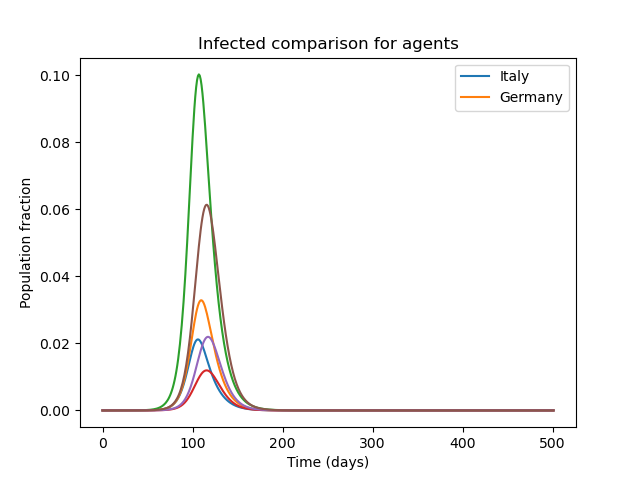
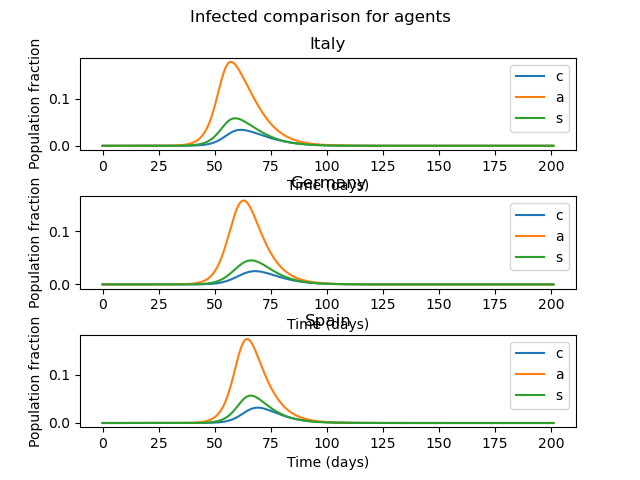
fixed plots

diff --git a/plots.py b/plots.py
@@ -2,21 +2,32 @@ import numpy as np
 from matplotlib import pyplot as plt
 
 def plot_compartment_comparison(agents, idx, comp_name):
+    
+    fig, axs = plt.subplots(len(agents),1)
+    fig.subplots_adjust(hspace = .5, wspace=.001)
+
+    fig.suptitle(f"{comp_name} comparison for agents")
+
+    axs = axs.ravel()
+
     # Plot desired compartment
-    for curr_agent in agents:
+    for i, curr_agent in enumerate(agents):
+
+        print(f'{curr_agent}--{agents[curr_agent].population}')
 
         arr_filter = np.asarray(agents[curr_agent].history[:,1:,:])[:,idx:, :] > 0.001
 
-
-        plt.plot(agents[curr_agent].history[:,1:,:][:,idx, 0])
-        plt.plot(agents[curr_agent].history[:,1:,:][:,idx, 1])
-        plt.plot(agents[curr_agent].history[:,1:,:][:,idx, 2])
+        axs[i].plot(agents[curr_agent].history[:,1:,:][:,idx, 0])
         
+        axs[i].plot(agents[curr_agent].history[:,1:,:][:,idx, 1])
+        
+        axs[i].plot(agents[curr_agent].history[:,1:,:][:,idx, 2])
+
+        axs[i].legend(['c','a','s'])
+        axs[i].set_ylabel("Population fraction")
+        axs[i].set_xlabel("Time (days)")
+        axs[i].set_title(agents[curr_agent].name)
 
     # Add information
-    plt.title(f"{comp_name} comparison for agents")
-    plt.ylabel("Population fraction")
-    plt.xlabel("Time (days)")
-    plt.legend([agent for agent in agents])
     plt.savefig(f"results/{comp_name}_comparison.png")
     plt.show()

diff --git a/nation.py b/nation.py
@@ -30,8 +30,8 @@ class Nation(Agent):
 		s= measuring effect of isolation policy
 		g=infected/aymptomatic recovery rate
 		d=infected die rate
-		e=
-		k=
+		e= p
+		k= alpha
 		w_a, w_m= environment transmission
 		"""
 

diff --git a/main.py b/main.py
@@ -52,8 +52,6 @@ for agent in data_agents:
 		C=summary_C(cont_matrix)
 		agent_obj = Nation(cont_matrix, population, C, **agent)
 
-		#print(agent_obj)
-
 		agents[agent_obj.name]=agent_obj
 
 
